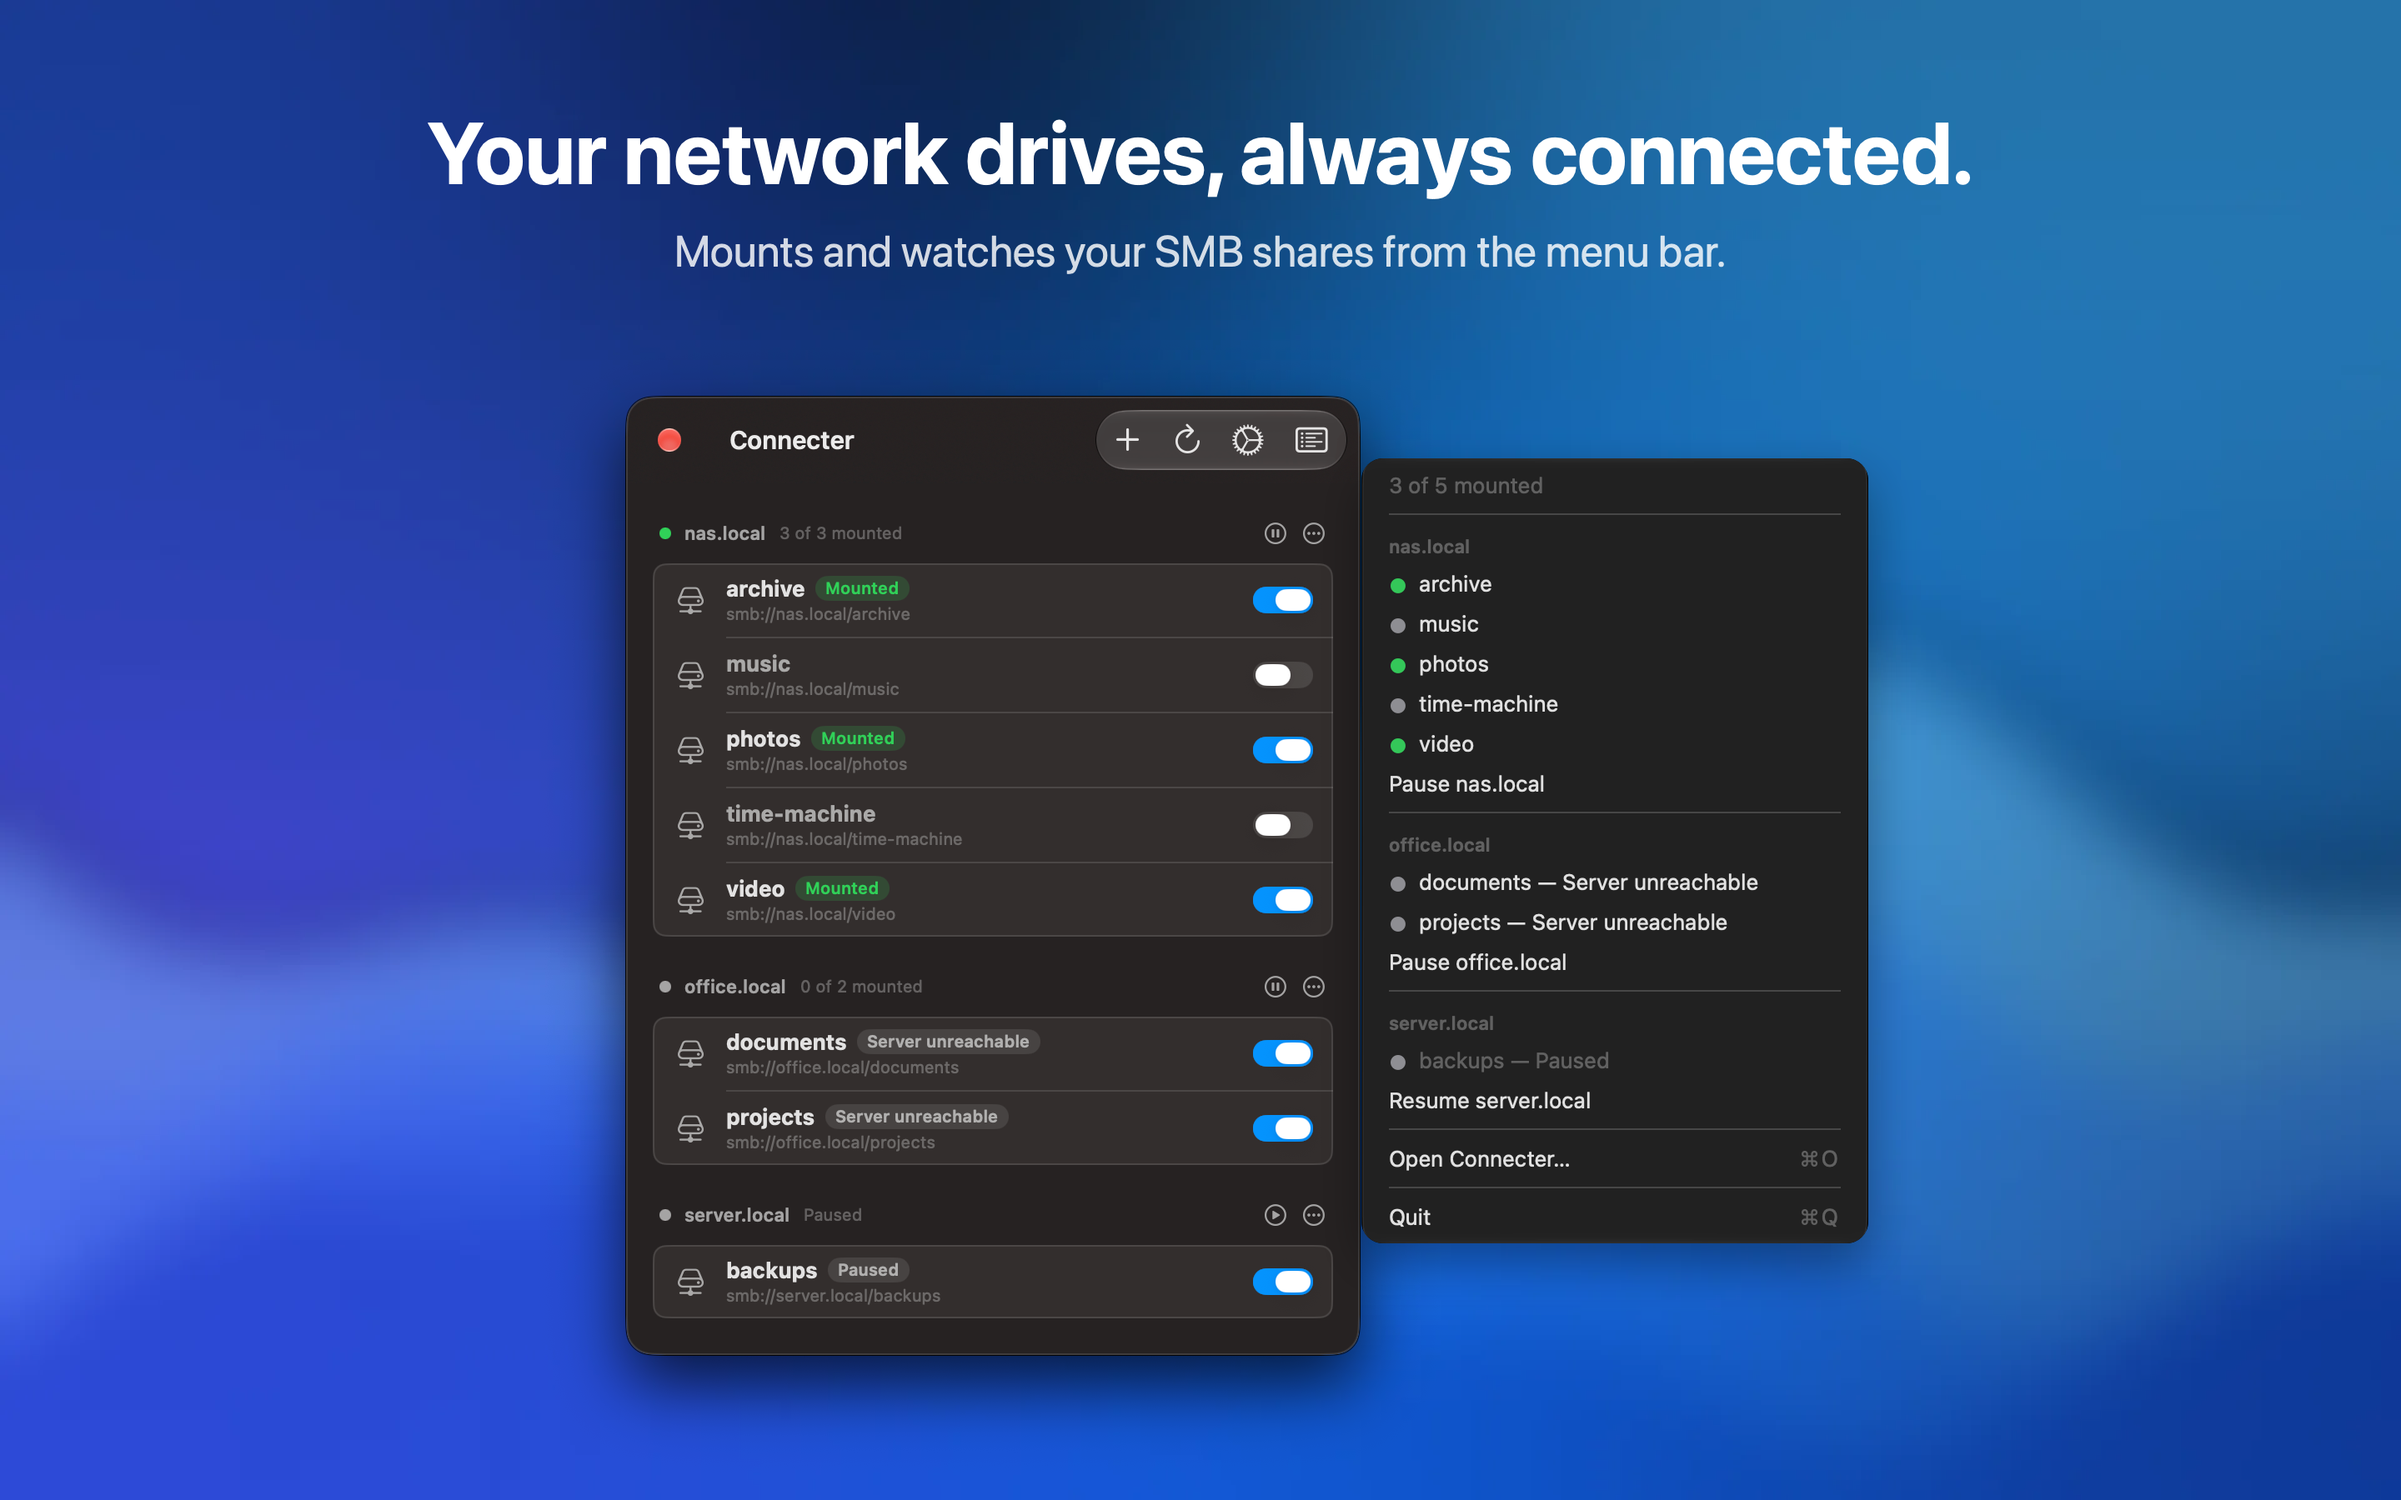
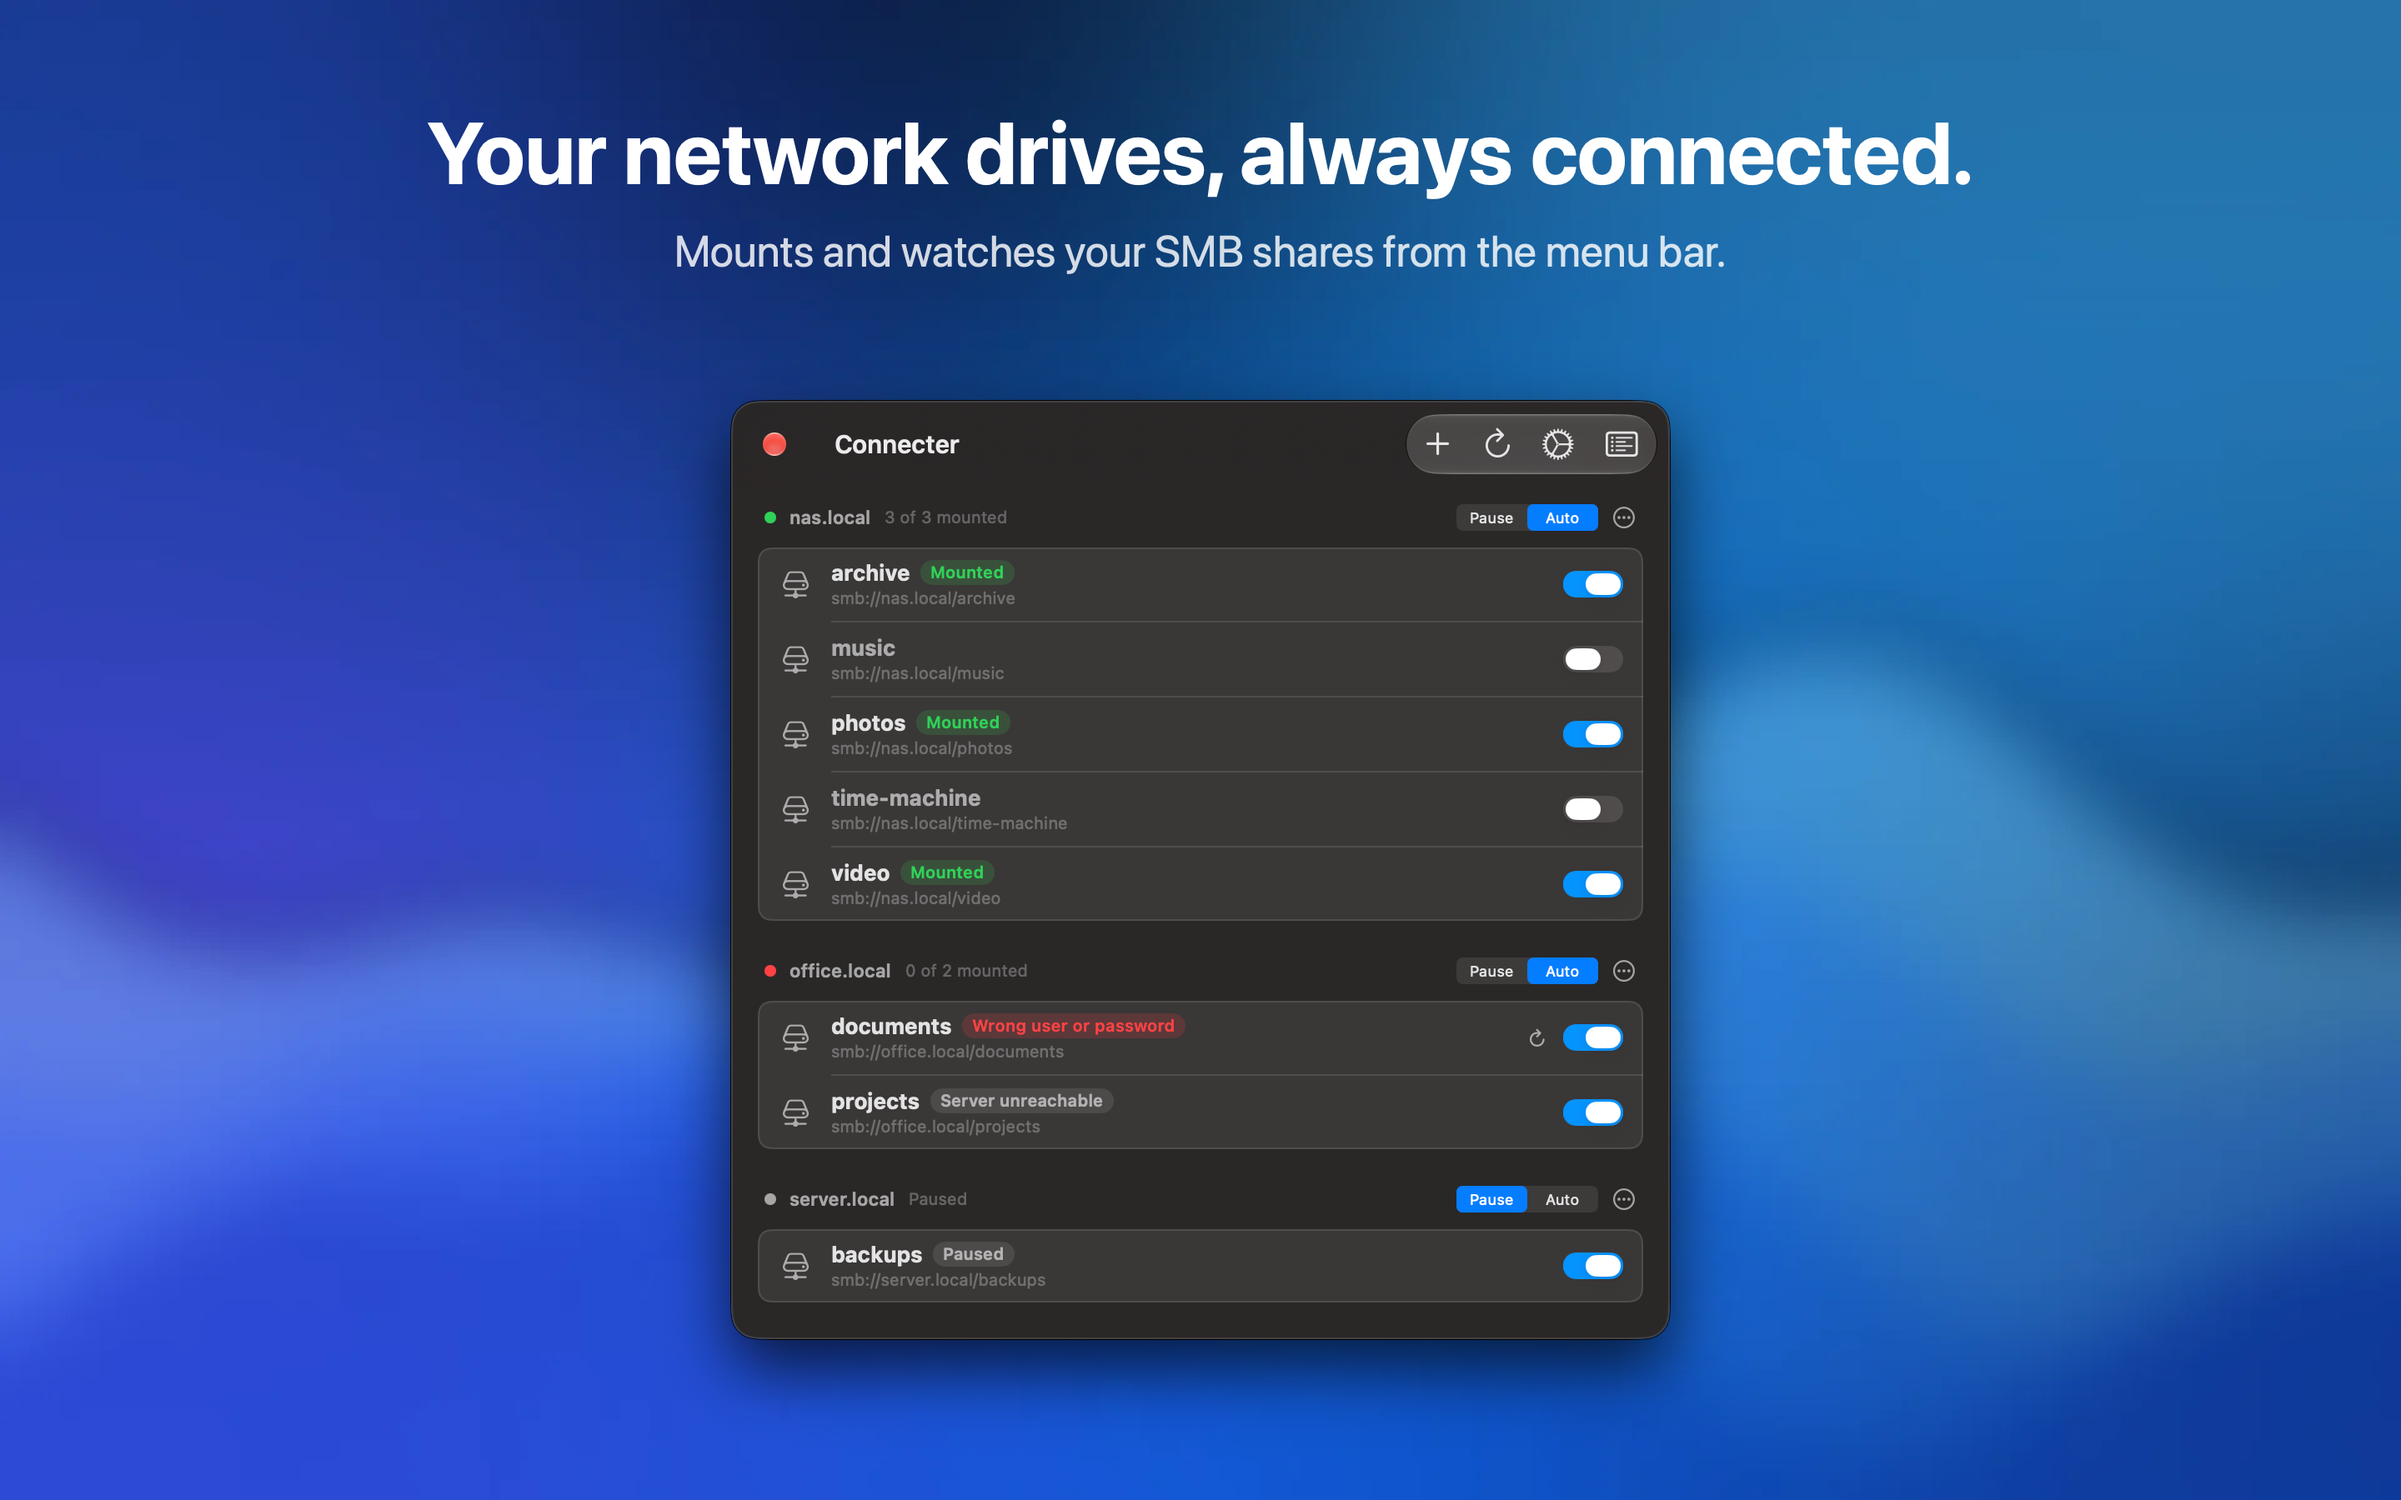
chore: build 10, capturas de la 1.2 y sin mencionar Tailscale
- Build 10 (el paquete de la build 9 llevaba el texto anterior).
- «Otras direcciones» habla solo de VPN: texto en los 7 idiomas, ejemplo
  «nas.vpn.lan, 10.8.0.5», README, ficha y comentarios.
- Capturas de la App Store (en y es) con la interfaz de la 1.2 y una quinta
  sobre las otras direcciones («En casa o fuera»).
- Modo demo (solo Debug): causa probable en un recurso, otras direcciones,
  credenciales de servidores en el llavero y montaje simulado para los GIF.

Changed region(s): [[0.2188, 0.2489, 0.7812, 0.9644]]

diff --git a/connecter/Managers/MountManager.swift b/connecter/Managers/MountManager.swift
@@ -104,7 +104,7 @@ final class MountManager: ObservableObject {
 
     /// Probable cause of each share's last failed mount, shown instead of
     /// "Error"; cleared as soon as the share leaves the error state.
-    @Published private(set) var problems: [UUID: MountProblem] = [:]
+    @Published private(set) var problems: [UUID: MountProblem] = AppEnvironment.isDemo ? DemoData.problems : [:]
 
     /// True when a mount timed out although the server's SMB port answers —
     /// the signature of a hung NetAuth agent (seen on macOS 27). Cleared as soon
@@ -555,7 +555,7 @@ final class MountManager: ObservableObject {
     }
 
     /// Every address the share's server answers to: its host first, then the
-    /// server's other addresses (VPN, Tailscale…) in the user's order.
+    /// server's other addresses (a VPN…) in the user's order.
     func hosts(for config: ShareConfig) -> [String] {
         [config.host] + (settings(forHost: config.host).otherHosts ?? [])
     }
@@ -1220,7 +1220,14 @@ final class MountManager: ObservableObject {
     private func checkShare(id: UUID) async {
         // One check at a time per share — a refresh while a mount is in progress
         // must not start a second (possibly hanging) NetFS request.
-        guard inFlight[id] == nil, !AppEnvironment.isDemo else { return }
+        guard inFlight[id] == nil else { return }
+        if AppEnvironment.isDemo {   // demo GIF: a share switched on "mounts" after a moment, nothing real
+            guard configs.first(where: { $0.id == id })?.connectionStatus == .disconnected else { return }
+            setStatus(.connecting, forID: id)
+            try? await Task.sleep(for: .seconds(1.2))
+            if !Task.isCancelled { setStatus(.connected, forID: id) }
+            return
+        }
         let attempt = UUID()
         inFlight[id] = attempt
         defer { if inFlight[id] == attempt { inFlight.removeValue(forKey: id) } }

diff --git a/connecter/Models/DemoData.swift b/connecter/Models/DemoData.swift
@@ -9,6 +9,8 @@ enum DemoData {
     private static let nas = "nas.local"
     private static let office = spanish ? "oficina.local" : "office.local"
     private static let server = spanish ? "servidor.local" : "server.local"
+    /// Only in the Keychain: shows an item that can be deleted.
+    private static let oldNas = spanish ? "nas-antiguo.local" : "old-nas.local"
 
     static let shares: [ShareConfig] = [
         share("archivo", "archive", on: nas, .connected),
@@ -16,7 +18,7 @@ enum DemoData {
         share("música", "music", on: nas, enabled: false),
         share("time-machine", "time-machine", on: nas, enabled: false),
         share("vídeo", "video", on: nas, .connected),
-        share("documentos", "documents", on: office, .unreachable),
+        share("documentos", "documents", on: office, .error),
         share("proyectos", "projects", on: office, .unreachable),
         share("copias", "backups", on: server),
     ]
@@ -29,8 +31,13 @@ enum DemoData {
                            isEnabled: enabled, connectionStatus: status)
     }
 
+    /// The failed share's status tag names the probable cause.
+    static var problems: [UUID: MountProblem] {
+        Dictionary(uniqueKeysWithValues: shares.filter { $0.connectionStatus == .error }.map { ($0.id, .wrongCredentials) })
+    }
+
     static let servers: [String: ServerSettings] = [
-        nas: ServerSettings(username: "admin"),
+        nas: ServerSettings(username: "admin", otherHosts: ["nas.vpn.lan", "10.8.0.5"]),
         server: ServerSettings(username: "admin", isPaused: true),
     ]
 
@@ -41,4 +48,7 @@ enum DemoData {
                                         hasPassword: true, usesServerCredentials: false)
         }
     }
+
+    /// Settings › Keychain's server credentials: the list's servers and one no longer used.
+    static let storedServers: [String: String] = [nas: "admin", server: "admin", oldNas: "admin"]
 }

diff --git a/connecter/Views/Shares/ServerCredentialsSheet.swift b/connecter/Views/Shares/ServerCredentialsSheet.swift
@@ -36,7 +36,7 @@ struct ServerCredentialsSheet: View {
                     }
                     GridRow {
                         Text("Others").gridColumnAlignment(.trailing).foregroundStyle(.secondary)
-                        TextField("nas.tailnet.ts.net, 100.64.0.5", text: $otherHosts)
+                        TextField("nas.vpn.lan, 10.8.0.5", text: $otherHosts)
                     }
                 }
                 if isOtherServer {
@@ -44,7 +44,7 @@ struct ServerCredentialsSheet: View {
                         .font(.caption)
                         .foregroundStyle(.orange)
                 }
-                Text("Use the others for the same server reached another way, such as its VPN or Tailscale name or IP; separate them with commas. Before each mount, Connecter checks every address at once and uses the first one that answers, in order: the main one, then the others. A share mounted through any of them counts as mounted. Shares mounted through an address you remove are mounted again through the rest.")
+                Text("Use the others for the same server reached another way, such as its name or IP on a VPN; separate them with commas. Before each mount, Connecter checks every address at once and uses the first one that answers, in order: the main one, then the others. A share mounted through any of them counts as mounted. Shares mounted through an address you remove are mounted again through the rest.")
                     .font(.caption)
                     .foregroundStyle(.secondary)
                     .fixedSize(horizontal: false, vertical: true)

diff --git a/connecter/Models/ShareConfig.swift b/connecter/Models/ShareConfig.swift
@@ -109,7 +109,7 @@ struct ServerSettings: Codable {
     /// The 1.1 "mount once" mode, dropped in 1.2: such servers are automatic
     /// now. Kept so 1.1 still reads what it saved; cleared on any mode change.
     var mountsOnce: Bool?
-    /// Other names or IPs of the same server (a VPN or Tailscale address),
+    /// Other names or IPs of the same server (its address on a VPN),
     /// tried in order after the host when it does not answer. Optional so
     /// settings saved by 1.1 still decode.
     var otherHosts: [String]?
@@ -127,7 +127,7 @@ struct ServerSettings: Codable {
         set { isPaused = newValue == .paused; mountsOnce = nil }
     }
 
-    /// Addresses typed as a list ("nas.tailnet.ts.net, 100.64.0.5"): split on
+    /// Addresses typed as a list ("nas.vpn.lan, 10.8.0.5"): split on
     /// commas and spaces, `smb://` and slashes removed, without `host` itself
     /// or repeats.
     static func parseHosts(_ text: String, excluding host: String) -> [String] {

diff --git a/connecter/Managers/KeychainManager.swift b/connecter/Managers/KeychainManager.swift
@@ -223,7 +223,7 @@ enum KeychainManager {
     /// The user of each server that has shared credentials in the Keychain,
     /// by `ShareConfig.serverKey` — attributes only, no secret is read.
     static func storedServerUsers() -> [String: String] {
-        if AppEnvironment.isDemo { return [:] }
+        if AppEnvironment.isDemo { return DemoData.storedServers }
         var users: [String: String] = [:]
         for item in appItemAttributes() where item[kSecAttrDescription as String] as? String == kindServer {
             guard let host = item[kSecAttrServer as String] as? String, !host.isEmpty else { continue }

diff --git a/docs/app-store-metadata.md b/docs/app-store-metadata.md
@@ -34,7 +34,7 @@ Before submitting, check the note on "same mount point" in [app-store-checklist.
 > • Shares grouped by server, with one set of credentials for the whole server or separate ones for each share
 > • Pause a server to unmount its shares and stop retrying until you resume it
 > • Add a server and pick several of its shares at once
-> • Works over VPN and Tailscale: give a server other addresses and Connecter uses the one that answers
+> • Works over a VPN: give a server other addresses and Connecter uses the one that answers
 > • Menu bar icon with a colour dot that sums up all your shares
 > • Each share's status in the menu, with mount and unmount in one click
 > • Open in Finder, copy the share's address and test the connection to the server
@@ -65,7 +65,7 @@ nas,network drive,mount,samba,synology,qnap,truenas,file sharing,auto mount,reco
 **What's New in This Version** (1.2):
 
 > • Add a whole server: choose several of its shares at once in the macOS share picker
-> • VPN and Tailscale: give a server other addresses and Connecter mounts through the one that answers; the main address can be changed
+> • VPN: give a server other addresses and Connecter mounts through the one that answers; the main address can be changed
 > • When a share fails, its status shows the probable cause (wrong password, share not found…)
 > • Shares that use the same user and password as their server switch to the server's credentials automatically
 > • Delete a server with all its shares, and manage what Connecter keeps in the Keychain
@@ -101,7 +101,7 @@ nas,network drive,mount,samba,synology,qnap,truenas,file sharing,auto mount,reco
 > • Recursos agrupados por servidor, con las mismas credenciales para todo el servidor o unas propias para cada recurso
 > • Pausa un servidor para desmontar sus recursos y dejar de reintentar hasta que lo reanudes
 > • Añade un servidor y elige varios de sus recursos a la vez
-> • Funciona con VPN y Tailscale: da a un servidor otras direcciones y Connecter usa la que responda
+> • Funciona por VPN: da a un servidor otras direcciones y Connecter usa la que responda
 > • Icono en la barra de menús con un punto de color que resume el estado de todos tus recursos
 > • El estado de cada recurso en el menú, con montar y desmontar en un clic
 > • Abrir en el Finder, copiar la dirección del recurso y probar la conexión con el servidor
@@ -130,7 +130,7 @@ nas,unidad de red,montar,samba,synology,qnap,truenas,carpeta compartida,reconect
 **Novedades de esta versión** (1.2):
 
 > • Añade un servidor completo: elige varios de sus recursos a la vez en el selector de macOS
-> • VPN y Tailscale: da a un servidor otras direcciones y Connecter monta por la que responda; la dirección principal se puede cambiar
+> • VPN: da a un servidor otras direcciones y Connecter monta por la que responda; la dirección principal se puede cambiar
 > • Cuando un recurso falla, su estado muestra la causa probable (contraseña incorrecta, recurso no encontrado…)
 > • Los recursos con el mismo usuario y contraseña que su servidor pasan solos a usar las credenciales del servidor
 > • Elimina un servidor con todos sus recursos y gestiona lo que Connecter guarda en el llavero

diff --git a/README.md b/README.md
@@ -11,7 +11,7 @@ A macOS menu bar utility for managing SMB network share connections. Connecter m
 - **Network-aware** — pauses checks while offline (`NWPathMonitor`) and re-checks every share as soon as connectivity returns
 - **Server-aware** — probes the SMB port before every mount attempt, so an unreachable NAS costs nothing (no NetFS calls, no failure count) and shares come back within one check interval of the server returning
 - **Add a whole server** — pick several of a server's shares at once in macOS's own share picker, or add a single share (shares already mounted in Finder are offered)
-- **VPN and Tailscale** — a server can have other addresses (a Tailscale name, a VPN IP); each mount goes through the first one that answers, and a share mounted through any of them counts as mounted
+- **VPN** — a server can have other addresses (its name or IP on a VPN); each mount goes through the first one that answers, and a share mounted through any of them counts as mounted
 - **Probable cause** — a failed share's status tag names the likely problem (wrong password, missing password, share not found, SMB refused…) with a hint on hover, instead of a bare "Error"
 - **Server credentials** — a share whose own credentials fail retries with its server's and keeps them if they work; shares with the same user and password as their server switch to the server's automatically
 - **Stable mount points** — reuses a stale `/Volumes/<share>` left by an interrupted mount instead of ending up at `/Volumes/<share>-1`, so saved paths keep working
